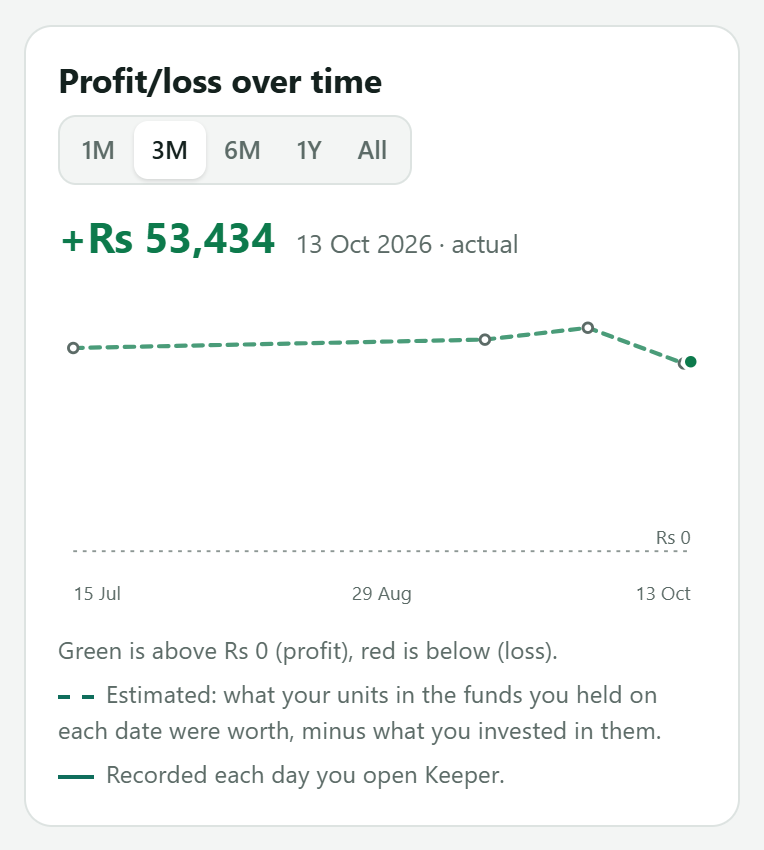
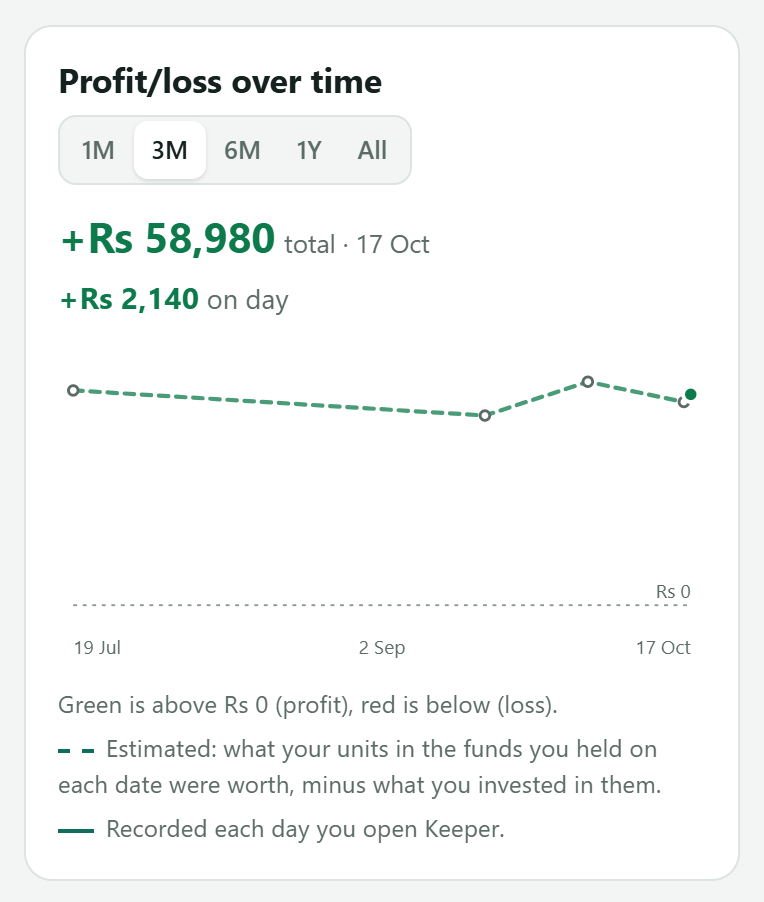
Show value share by default and add daily change to the P/L chart
- Share by fund opens on Value; Invested is the second option
- P/L chart: readout shows the total on the selected date and the
  change on that day; tapping a point shows a short tooltip
  (Total / Day, or "Since <date>" across longer gaps)
- usage guide explains that chart points are running totals
- docs screenshots recaptured

diff --git a/src/components/PnlChart.tsx b/src/components/PnlChart.tsx
@@ -58,6 +58,15 @@ export default function PnlChart({ positions, snapshots }: { positions: Position
   const estPart = firstActual === -1 ? pts : pts.slice(0, firstActual + 1);
   const actPart = firstActual === -1 ? [] : pts.slice(firstActual);
   const shown = pts[active ?? pts.length - 1];
+  // Change since the previous point in the full history (the previous NAV day, or the previous estimate).
+  const allIdx = all.findIndex(p => p.date === shown.date);
+  const prev = allIdx > 0 ? all[allIdx - 1] : null;
+  const change = prev ? shown.pnl - prev.pnl : null;
+  // Next NAV day (weekends and holidays included) counts as "on day"; longer gaps say since when.
+  const changeLabel = prev && dayNum(shown.date) - dayNum(prev.date) <= 4 ? 'on day' : prev ? `since ${dateLabel(prev.date)}` : '';
+  const dateText = `${dateLabel(shown.date)}${shown.estimated ? ' · est.' : ''}`;
+  const tipX = (x(shown.date) / W) * 100;
+  const tipY = (y(shown.pnl) / H) * 100;
   const spansYears = pts[0].date.slice(0, 4) !== pts[pts.length - 1].date.slice(0, 4);
   const axisLabel = (iso: string) => (spansYears ? `${dateLabel(iso)} ’${iso.slice(2, 4)}` : dateLabel(iso));
   const midDate = shiftDate(pts[0].date, Math.round((t1 - t0) / 2));
@@ -82,13 +91,16 @@ export default function PnlChart({ positions, snapshots }: { positions: Position
         </div>
       </div>
       <div className="readout" aria-live="polite">
-        <b className={tone(shown.pnl)}>{rs(shown.pnl, true)}</b>
-        <span>{dateLabel(shown.date)} {shown.date.slice(0, 4)} · {shown.estimated ? 'estimated' : 'actual'}</span>
+        <div><b className={tone(shown.pnl)}>{rs(shown.pnl, true)}</b> <span>total · {dateText}</span></div>
+        {change !== null && (
+          <div className="readout-change"><b className={tone(change)}>{rs(change, true)}</b> {changeLabel}</div>
+        )}
       </div>
+      <div className="chart-plot">
       <svg viewBox={`0 0 ${W} ${H}`} className="chart-svg" role="img"
         aria-label={`Total profit and loss from ${dateLabel(pts[0].date)} to ${dateLabel(pts[pts.length - 1].date)}, between ${rs(Math.min(...values), true)} and ${rs(Math.max(...values), true)}`}
         onPointerDown={onPointer} onPointerMove={e => { if (e.buttons || e.pointerType === 'mouse') onPointer(e); }}
-        onPointerLeave={() => setActive(null)}>
+        onPointerLeave={e => { if (e.pointerType === 'mouse') setActive(null); }}>
         <line x1={M.left} x2={W - M.right} y1={y(0)} y2={y(0)} className="chart-zero" />
         <text x={W - M.right} y={y(0) - 4} textAnchor="end" className="chart-label">Rs 0</text>
         <defs>
@@ -110,6 +122,17 @@ export default function PnlChart({ positions, snapshots }: { positions: Position
         {t1 - t0 >= 4 && <text x={x(midDate)} y={H - 6} textAnchor="middle" className="chart-label">{axisLabel(midDate)}</text>}
         <text x={W - M.right} y={H - 6} textAnchor="end" className="chart-label">{axisLabel(pts[pts.length - 1].date)}</text>
       </svg>
+      {active !== null && (
+        <div className={`chart-tip ${tipY < 35 ? 'below' : ''}`} role="tooltip"
+          style={{ left: `${Math.min(Math.max(tipX, 22), 78)}%`, top: `${tipY}%` }}>
+          <div className="tip-date">{dateText}</div>
+          <div className="tip-row"><span>Total</span><b className={tone(shown.pnl)}>{rs(shown.pnl, true)}</b></div>
+          {change !== null && (
+            <div className="tip-row"><span>{changeLabel === 'on day' ? 'Day' : `Since ${dateLabel(prev!.date)}`}</span><b className={tone(change)}>{rs(change, true)}</b></div>
+          )}
+        </div>
+      )}
+      </div>
       {pts.some(p => p.estimated) && (
         <p className="chart-note">
           <span>Green is above Rs 0 (profit), red is below (loss).</span>

diff --git a/src/components/AllocationPie.tsx b/src/components/AllocationPie.tsx
@@ -8,9 +8,9 @@ const C = 2 * Math.PI * R;
 
 type Basis = 'invested' | 'value';
 
-/** Donut chart of each fund's share of the money invested (or of current value). */
+/** Donut chart of each fund's share of current value (default) or of the money invested. */
 export default function AllocationPie({ portfolio }: { portfolio: Portfolio }) {
-  const [basis, setBasis] = useState<Basis>('invested');
+  const [basis, setBasis] = useState<Basis>('value');
   const [active, setActive] = useState<number | null>(null);
 
   const slices = portfolio.positions
@@ -46,8 +46,8 @@ export default function AllocationPie({ portfolio }: { portfolio: Portfolio }) {
       <div className="chart-head">
         <h2 id="pie-h">Share by fund</h2>
         <div className="seg" role="group" aria-label="Measure">
-          <button type="button" aria-pressed={basis === 'invested'} className={basis === 'invested' ? 'on' : ''} onClick={() => setBasis('invested')}>Invested</button>
           <button type="button" aria-pressed={basis === 'value'} className={basis === 'value' ? 'on' : ''} onClick={() => setBasis('value')}>Value</button>
+          <button type="button" aria-pressed={basis === 'invested'} className={basis === 'invested' ? 'on' : ''} onClick={() => setBasis('invested')}>Invested</button>
         </div>
       </div>
       <div className="pie-wrap">

diff --git a/src/styles.css b/src/styles.css
@@ -276,3 +276,17 @@ input[type="date"] {
 .add-hint { font-size: .8rem; color: var(--muted); }
 .link-btn { background: none; border: 0; padding: 0; color: var(--accent); font-weight: 600; cursor: pointer; text-decoration: underline; }
 .row-added { font-size: .85rem; }
+
+/* Chart tooltip and daily change */
+.readout-change { flex-basis: 100%; font-size: .85rem; color: var(--muted); }
+.readout-change b { font-size: .95rem; }
+.chart-plot { position: relative; }
+.chart-tip {
+  position: absolute; transform: translate(-50%, calc(-100% - 12px)); pointer-events: none; z-index: 2;
+  background: var(--surface); border: 1px solid var(--line); border-radius: 10px; padding: 8px 10px;
+  box-shadow: 0 6px 18px rgb(0 0 0 / .18); white-space: nowrap; display: grid; gap: 3px; font-size: .8rem;
+}
+.chart-tip.below { transform: translate(-50%, 12px); }
+.tip-date { color: var(--muted); font-size: .74rem; }
+.tip-row { display: flex; justify-content: space-between; gap: 12px; }
+.tip-row b { font-variant-numeric: tabular-nums; }

diff --git a/docs/USAGE.md b/docs/USAGE.md
@@ -43,9 +43,9 @@ Prices update by themselves each time you open the app (at most every 30 minutes
 
 - **Today's profit/loss:** the change on each fund's latest NAV day, added up across all funds. Funds publish their NAVs at slightly different times, so each card shows its own NAV date. A yellow date means that fund hasn't published today's NAV yet.
 - **Your funds:** swipe the cards, or use ‹ › and the dots. Tap **Reorder** to change the order.
-- **Share by fund:** switch between **Invested** (the money you put in) and **Value** (what it's worth now). Tap a slice to see its percentage.
+- **Share by fund:** shows each fund's share of your portfolio's current **Value**. Switch to **Invested** to see how the money you put in is split. Tap a slice to see its percentage.
 - **By category:** profit/loss for Equity, Money Market, Income and Asset Allocation.
-- **Profit/loss over time:** pick 1M–1Y. Tap the chart to read any point. The dashed part is estimated from MUFAP's past returns. The solid part is recorded each day you open the app. Details: [How it works](HOW-IT-WORKS.md#profitloss-over-time).
+- **Profit/loss over time:** pick 1M–1Y. Each point is your **total** profit/loss on that date, not that day's gain. Tap a point to see its total and the change on that day. The dashed part is estimated from MUFAP's past returns. The solid part is recorded each day you open the app. Details: [How it works](HOW-IT-WORKS.md#profitloss-over-time).
 
 Money market and income funds report returns as an annual rate, marked **p.a.** on the cards.
 

diff --git a/README.md b/README.md
@@ -23,7 +23,7 @@ It reads the public daily prices from [MUFAP](https://www.mufap.com.pk/Industry/
 |---|---|
 | <img src="docs/images/summary.png" alt="Summary card" width="320"> | **Today, across all funds.** Today's profit/loss, how many funds went up or down, total value, amount invested and total profit/loss. |
 | <img src="docs/images/funds.png" alt="Fund card" width="320"> | **One card per fund.** Swipe sideways. Each card shows today's change, value, units, total profit/loss and the fund's month, year-to-date and 1-year returns. Cards can be reordered. |
-| <img src="docs/images/share-by-fund.png" alt="Share by fund donut chart" width="320"> | **Share by fund.** How your money is split, by amount invested or by current value. |
+| <img src="docs/images/share-by-fund.png" alt="Share by fund donut chart" width="320"> | **Share by fund.** How your money is split by current value, or by amount invested. |
 | <img src="docs/images/by-category.png" alt="Profit and loss by category" width="320"> | **By category.** Equity, Money Market, Income and Asset Allocation, each with today's and total profit/loss. |
 | <img src="docs/images/chart.png" alt="Profit/loss over time chart" width="320"> | **Profit/loss over time.** 1 month to 1 year. Green above Rs 0, red below. Loads only when you scroll to it. |
 
